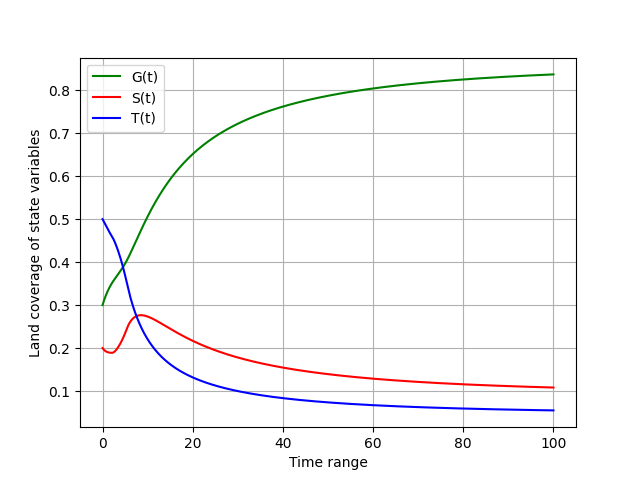
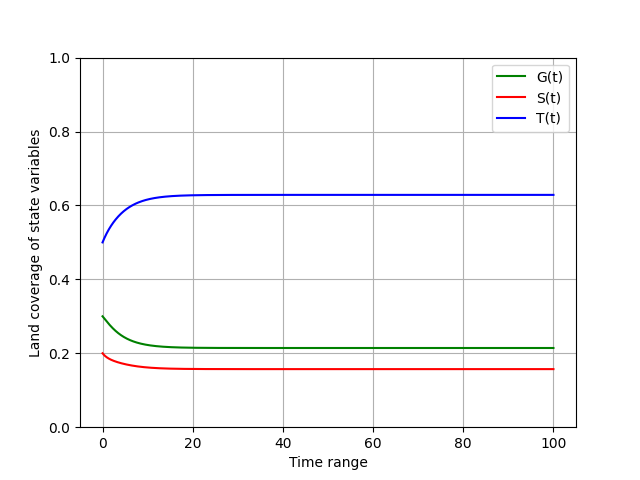
Added more article simulations

diff --git a/Project/project.py b/Project/project.py
@@ -4,19 +4,22 @@ from scipy.integrate import odeint
 from numeric_methods import euler_explicit_method, euler_implicit_method, trapezoid_method
 from numeric_methods import runge_kutta_implicit_2s, runge_kutta_explicit_rs
 
+#Parameters for omega function
 alfa = 0.35
 epsilon = 0.05
-miu = 0.2
-beta = 0.7
-nu = 0.2
 omega_0 = 0.4
 omega_1 = 0.1
+#Parameters of ODE system
+miu = 0.2
+beta = 0.7
+nu = 0.1
 
 def plot_graphics(t_vector, G, S, T, name):
     plt.clf()
     plt.plot(t_vector, G, 'g', label='G(t)')
     plt.plot(t_vector, S, 'r', label='S(t)')
     plt.plot(t_vector, T, 'b', label='T(t)')
+    plt.ylim(0, 1)
     plt.legend()
     plt.grid()
     plt.xlabel('Time range')
@@ -32,9 +35,10 @@ def omega_function(G):
 
 def ode_system(u, t):
     G, S, T = u
+    omega = omega_function(G)
     dGdt = miu*S + nu*T - beta*G*T
-    dSdt = beta*G*T - omega_function(G)*S - miu*S
-    dTdt = omega_function(G)*S - nu*T
+    dSdt = beta*G*T - omega*S - miu*S
+    dTdt = omega*S - nu*T
     ans = [dGdt, dSdt, dTdt]
     return ans
 
@@ -64,8 +68,3 @@ plot_graphics(t_vector, G, S, T, "euler_implicit_solution")
 #trapezoid method
 G, S, T = trapezoid_method(ode_system, t_vector, u0, h)
 plot_graphics(t_vector, G, S, T, "trapezoid_solution")
-
-#Second Simulation
-#G0 = 0.8
-#S0 = 0.1
-#T0 = 0.1
